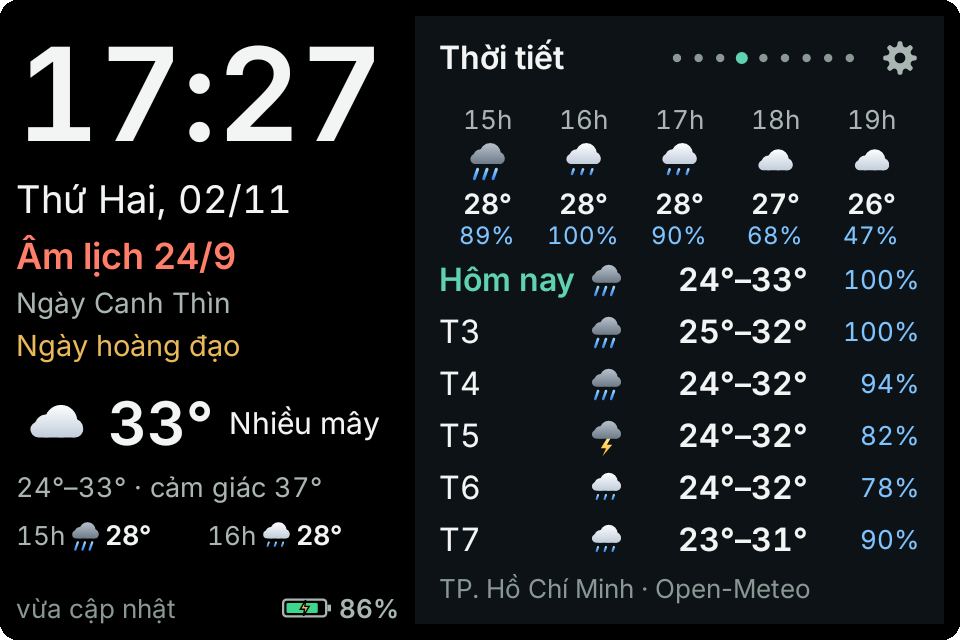
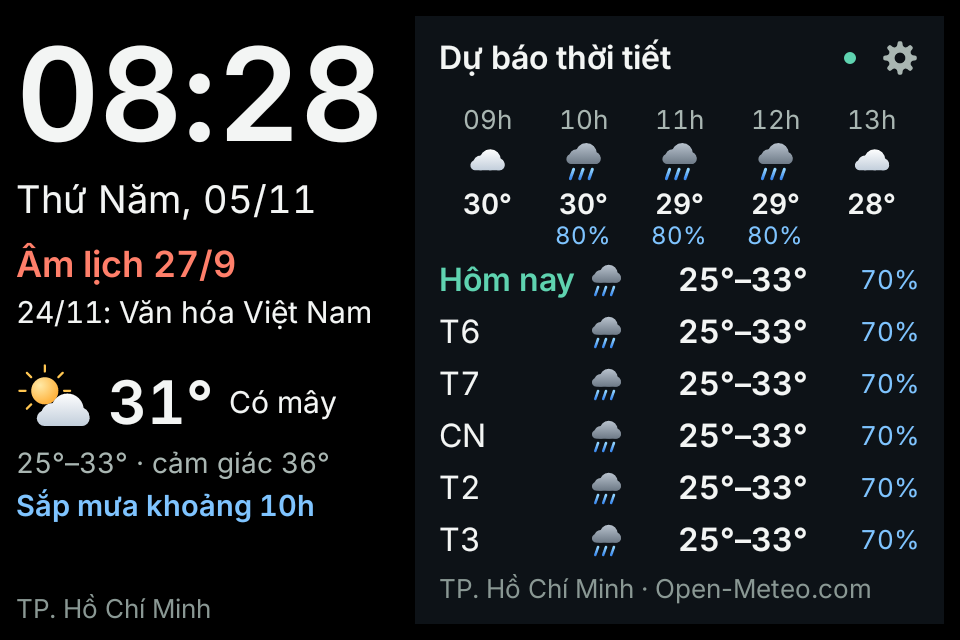
Cột đồng hồ gọn hơn: ba khối giờ, âm lịch, thời tiết; sửa dòng đếm ngược dễ hiểu nhầm
- Bỏ khỏi cột trái (đã có ở trang Tờ lịch, Thời tiết): dòng can chi, "ngày hoàng
  đạo/hắc đạo", độ ẩm, dự báo theo giờ, "vừa cập nhật". Bật lại được trong
  Cài đặt > Nâng cao ("Dưới đồng hồ hiện thêm chi tiết").
- Dòng sự kiện chỉ hiện khi đáng nói; không khí chỉ hiện khi từ mức kém và không
  có cảnh báo mưa; dòng trạng thái chỉ ghi nơi ở, thêm giờ cập nhật khi dữ liệu cũ
  hơn 45 phút.
- Giãn khoảng giữa các khối cho dễ nhìn từ xa.
- Sửa: trên màn hẹp, "Còn 19 ngày: Ngày Văn hóa Việt Nam" bị rút thành
  "Ngày Văn hóa Việt Nam" như thể hôm nay là ngày lễ (tương tự với "Ngày mai",
  giỗ sắp tới). Các bản rút gọn giờ luôn giữ "còn N ngày", "mai" hoặc ngày dương.
- Ảnh chụp màn hình trong README chụp lại theo giao diện mới.
- Test: ClockColumnTest (70 ca).

Claude-Session: https://claude.ai/code/session_01LBFAmNj1cuipmdNPwyJz5E

diff --git a/app/src/main/java/vn/nhatnguyet/ui/MainActivity.java b/app/src/main/java/vn/nhatnguyet/ui/MainActivity.java
@@ -898,14 +898,18 @@ public class MainActivity extends Activity implements DataHub.Listener, Updater.
         });
         col.add(clock, 0);
 
-        // Mỗi dữ kiện một dòng; thiếu chỗ thì ẩn dòng kém quan trọng (số ưu tiên lớn) trước.
+        // Ba khối: giờ và ngày dương; âm lịch và sự kiện; thời tiết. Mỗi dữ kiện một dòng, thiếu chỗ thì ẩn dòng
+        // kém quan trọng (số ưu tiên lớn) trước. Chế độ gọn (mặc định) bỏ những gì đã có ở trang bên phải.
+        boolean details = prefs.clockDetails();
         dateLine = line(19, false);
         col.add(dateLine, 0, ui.px(2));
         lunarLine = line(18, true);
-        col.add(lunarLine, 1, ui.px(6));
+        col.add(lunarLine, 1, ui.px(10));
         canChiLine = line(14, false);
+        canChiLine.setVisibility(details ? View.VISIBLE : View.GONE);
         col.add(canChiLine, 7, ui.px(4));
-        eventLine = line(14.5f, false);
+        eventLine = line(15, false);
+        eventLine.setVisibility(View.GONE);
         col.add(eventLine, 3, ui.px(4));
 
         LinearLayout wx = ui.row();
@@ -916,19 +920,20 @@ public class MainActivity extends Activity implements DataHub.Listener, Updater.
         wx.addView(tempText);
         descText = line(15, false);
         wx.addView(descText, Ui.weight(1));
-        col.add(wx, 2, ui.px(10));
+        col.add(wx, 2, ui.px(16));
 
-        alertLine = line(14, true);
+        detailText = line(14, false);
+        col.add(detailText, 5, ui.px(2));
+        alertLine = line(14.5f, true);
         alertLine.setVisibility(View.GONE);
         col.add(alertLine, 3, ui.px(4));
-        detailText = line(13.5f, false);
-        col.add(detailText, 5, ui.px(4));
-        airLine = line(13.5f, false);
+        airLine = line(14, false);
         airLine.setVisibility(View.GONE);
         col.add(airLine, 4, ui.px(3));
 
         hoursRow = ui.row();
         hoursCount = (int) clamp(widthPx / ui.pxf(78), 2, 6);
+        hoursRow.setVisibility(details ? View.VISIBLE : View.GONE);
         col.add(hoursRow, 6, ui.px(6));
 
         col.addFill(ui.spacer());
@@ -1320,7 +1325,9 @@ public class MainActivity extends Activity implements DataHub.Listener, Updater.
         String off = hol == null ? DaysOff.name(d, m, y) : null;
         // Ngày riêng (giỗ, sinh nhật) được nhắc trước một tuần, trước cả mùng 1, rằm.
         Lunar.Upcoming soon = hol == null && off == null ? Lunar.nextPersonal(d, m, y, 7) : null;
-        String[] ev;
+        // Chỉ hiện khi có điều đáng nói. Bản rút gọn (màn hẹp) phải giữ "hôm nay / mai / còn N ngày",
+        // nếu không người xem tưởng ngày lễ sắp tới là hôm nay.
+        String[] ev = null;
         int color = Theme.LUNAR;
         if (hol != null) {
             ev = new String[]{"Hôm nay: " + hol.name, hol.name};
@@ -1328,7 +1335,8 @@ public class MainActivity extends Activity implements DataHub.Listener, Updater.
             // Nghỉ bù, ngày nghỉ Tết, nghỉ hoán đổi theo lịch nhà nước.
             ev = new String[]{"Hôm nay: " + off, off};
         } else if (soon != null) {
-            ev = new String[]{(soon.days == 1 ? "Ngày mai: " : "Còn " + soon.days + " ngày: ") + soon.holiday.name, soon.holiday.name};
+            ev = countdown(soon);
+            color = Theme.TEXT;
         } else if (ld.day == 1 && !ld.leap) {
             ev = new String[]{"Mùng 1 tháng " + Lunar.MONTH_NAME[ld.month]};
         } else if (ld.day == 15) {
@@ -1340,20 +1348,30 @@ public class MainActivity extends Activity implements DataHub.Listener, Updater.
             List<Lunar.Upcoming> up = Lunar.upcoming(d, m, y, 1, true);
             int tet = Lunar.daysToTet(d, m, y);
             if (!up.isEmpty() && up.get(0).days <= 45) {
-                Lunar.Upcoming u = up.get(0);
-                String when = u.days == 1 ? "Ngày mai" : "Còn " + u.days + " ngày";
-                ev = new String[]{when + ": " + u.holiday.name, u.holiday.name};
+                ev = countdown(up.get(0));
                 color = Theme.TEXT;
             } else if (tet > 0 && tet <= 60) {
                 ev = new String[]{"Còn " + tet + " ngày đến Tết", "Tết: còn " + tet + " ngày"};
-            } else {
+                color = Theme.TEXT;
+            } else if (prefs.clockDetails()) {
                 boolean good = Lunar.isHoangDao(ld.jd, ld.month);
                 String kind = good ? "Ngày hoàng đạo" : "Ngày hắc đạo";
                 ev = new String[]{kind + " · tiết " + Lunar.solarTerm(ld.jd), kind};
                 color = good ? Theme.AUSPICIOUS : Theme.DIM;
             }
         }
-        eventLine.set(color, ev);
+        eventLine.setVisibility(ev == null ? View.GONE : View.VISIBLE);
+        if (ev != null) eventLine.set(color, ev);
+    }
+
+    /** "Còn 19 ngày: Ngày Văn hóa Việt Nam", rút dần nhưng luôn giữ khoảng cách ngày. */
+    static String[] countdown(Lunar.Upcoming u) {
+        String name = u.holiday.name;
+        String shortName = name.startsWith("Ngày ") ? name.substring(5) : name;
+        if (u.days == 1) return new String[]{"Ngày mai: " + name, "Mai: " + shortName, "Ngày mai có lễ"};
+        String date = Fmt.two(u.solar[0]) + "/" + Fmt.two(u.solar[1]);
+        return new String[]{"Còn " + u.days + " ngày: " + name, "Còn " + u.days + " ngày: " + shortName,
+                date + ": " + shortName, date + " · còn " + u.days + " ngày"};
     }
 
     private void renderWeather() {
@@ -1391,20 +1409,23 @@ public class MainActivity extends Activity implements DataHub.Listener, Updater.
             JSONObject t = days.optJSONObject(0);
             range = Fmt.range(t.optDouble("min"), t.optDouble("max"));
         }
+        boolean details = prefs.clockDetails();
         String feels = "cảm giác " + Fmt.temp(now.optDouble("feels"));
         double hum = now.optDouble("hum");
-        String humid = Double.isNaN(hum) ? "" : " · ẩm " + Math.round(hum) + "%";
+        String humid = details && !Double.isNaN(hum) ? " · ẩm " + Math.round(hum) + "%" : "";
         String head = range.length() > 0 ? range + " · " : "";
         detailText.set(Theme.DIM, head + feels + humid, head + feels, range.length() > 0 ? range : feels);
 
+        // Chế độ gọn: chỉ thêm một dòng cảnh báo khi đáng báo (sắp mưa, hoặc không khí từ mức "kém").
         String rain = WeatherSource.rainSoon(w);
         alertLine.setVisibility(rain == null ? View.GONE : View.VISIBLE);
         if (rain != null) {
             alertLine.set(rain.startsWith("Sắp có dông") ? Theme.WARN : Theme.RAIN, rain, rain.replaceFirst(" \\(.*\\)$", ""));
         }
         JSONObject air = w.optJSONObject("air");
-        airLine.setVisibility(air == null ? View.GONE : View.VISIBLE);
-        if (air != null) {
+        boolean showAir = air != null && (details || (rain == null && WeatherCodes.aqiLevel(air.optInt("aqi")) >= 2));
+        airLine.setVisibility(showAir ? View.VISIBLE : View.GONE);
+        if (showAir) {
             int aqi = air.optInt("aqi");
             int level = WeatherCodes.aqiLevel(aqi);
             String label = WeatherCodes.AQI_LABEL[level];
@@ -1415,7 +1436,7 @@ public class MainActivity extends Activity implements DataHub.Listener, Updater.
         }
 
         JSONArray hours = w.optJSONArray("hours");
-        if (hours != null) {
+        if (hours != null && details) {
             int start = WeatherSource.firstUpcomingHour(w, System.currentTimeMillis());
             for (int i = start; i < start + hoursCount && i < hours.length(); i++) {
                 JSONObject h = hours.optJSONObject(i);
@@ -1485,8 +1506,13 @@ public class MainActivity extends Activity implements DataHub.Listener, Updater.
             statusText.set(Theme.META, place);
             return;
         }
+        // Chỉ nói giờ cập nhật khi dữ liệu đã cũ; bình thường thì dòng này chỉ ghi nơi ở cho đỡ rối.
         long now = System.currentTimeMillis();
-        String fresh = now - e.at < 60_000L ? "vừa cập nhật" : "cập nhật " + Fmt.agoPhrase(e.at, now);
+        if (now - e.at < 45 * 60_000L) {
+            statusText.set(Theme.META, place);
+            return;
+        }
+        String fresh = "cập nhật " + Fmt.agoPhrase(e.at, now);
         statusText.set(Theme.META, place + " · " + fresh, fresh);
     }
 

diff --git a/app/src/main/java/vn/nhatnguyet/ui/SettingsActivity.java b/app/src/main/java/vn/nhatnguyet/ui/SettingsActivity.java
@@ -88,7 +88,7 @@ public class SettingsActivity extends Activity implements Updater.Listener {
     private TextView placeState, personalState, updateState, versionText, versionDetail;
     private Button installButton, pinButton, pinRemove;
     private CheckBox alwaysOn, burnIn, warmNight, proximity, proximitySleep, wakeMorning, autoStart, autoUpdate, flipInfo;
-    private CheckBox awayEnabled, awayWeekdays, batterySaver;
+    private CheckBox awayEnabled, awayWeekdays, batterySaver, clockDetails;
     private Slider awayStart, awayEnd;
     private LinearLayout awayBox;
     private TextView batteryState;
@@ -459,6 +459,8 @@ public class SettingsActivity extends Activity implements Updater.Listener {
 
         label(box, "Bố cục");
         layoutGroup = radios(box, 100, new String[]{"Tự động theo kích thước máy", "Luôn 2 cột", "3 cột (máy màn dài từ 6 inch)"});
+        clockDetails = check(box, "Dưới đồng hồ hiện thêm chi tiết: can chi, ngày hoàng đạo, độ ẩm, không khí, dự báo theo giờ");
+        note(box, "Mặc định cột đồng hồ chỉ giữ giờ, ngày, âm lịch, ngày lễ sắp tới và thời tiết; phần chi tiết đã có ở trang Tờ lịch và Thời tiết.");
 
         label(box, "Chứng khoán: mã theo dõi, cách nhau dấu phẩy");
         watchlist = input(box, Prefs.DEFAULT_WATCHLIST, InputType.TYPE_CLASS_TEXT | InputType.TYPE_TEXT_FLAG_CAP_CHARACTERS
@@ -786,6 +788,7 @@ public class SettingsActivity extends Activity implements Updater.Listener {
         awayEnd.set(prefs.awayEnd());
         awayWeekdays.setChecked(prefs.awayWeekdaysOnly());
         batterySaver.setChecked(prefs.batterySaver());
+        clockDetails.setChecked(prefs.clockDetails());
         autoStart.setChecked(prefs.autoStart());
         if (autoUpdate != null) autoUpdate.setChecked(prefs.autoUpdate());
     }
@@ -864,6 +867,7 @@ public class SettingsActivity extends Activity implements Updater.Listener {
         prefs.putInt("away_end", awayEnd.get());
         prefs.putBool("away_weekdays", awayWeekdays.isChecked());
         prefs.putBool("battery_saver", batterySaver.isChecked());
+        prefs.putBool("clock_details", clockDetails.isChecked());
         if (autoUpdate != null) prefs.putBool("auto_update", autoUpdate.isChecked());
 
         if (!place.getText().toString().trim().equalsIgnoreCase(prefs.placeName())

diff --git a/app/src/test/java/vn/nhatnguyet/ui/ClockColumnTest.java b/app/src/test/java/vn/nhatnguyet/ui/ClockColumnTest.java
@@ -1,0 +1,25 @@
+package vn.nhatnguyet.ui;
+
+import static org.junit.Assert.assertEquals;
+import static org.junit.Assert.assertTrue;
+
+import org.junit.Test;
+
+import java.util.List;
+
+import vn.nhatnguyet.lunar.Lunar;
+
+/** Dòng sự kiện dưới đồng hồ: bản rút gọn cho màn hẹp không được làm người xem tưởng ngày lễ là hôm nay. */
+public class ClockColumnTest {
+    @Test
+    public void countdownAlwaysKeepsWhen() {
+        List<Lunar.Upcoming> up = Lunar.upcoming(5, 11, 2026, 1, true);
+        Lunar.Upcoming u = up.get(0);
+        assertEquals("Ngày Văn hóa Việt Nam", u.holiday.name);
+        String[] v = MainActivity.countdown(u);
+        assertEquals("Còn 19 ngày: Ngày Văn hóa Việt Nam", v[0]);
+        for (String s : v) assertTrue(s, s.contains("19 ngày") || s.startsWith("24/11"));
+        String[] tomorrow = MainActivity.countdown(Lunar.upcoming(23, 11, 2026, 1, true).get(0));
+        for (String s : tomorrow) assertTrue(s, s.toLowerCase().contains("mai"));
+    }
+}

diff --git a/app/src/main/java/vn/nhatnguyet/Prefs.java b/app/src/main/java/vn/nhatnguyet/Prefs.java
@@ -268,6 +268,11 @@ public final class Prefs {
         return DISPLAY_FLIP.equals(displayMode());
     }
 
+    /** Cột giờ hiện thêm chi tiết: can chi, ngày hoàng đạo, độ ẩm, không khí, dự báo theo giờ (mặc định gọn). */
+    public boolean clockDetails() {
+        return sp.getBoolean("clock_details", false);
+    }
+
     /** Hiện ngày, âm lịch, thời tiết dưới đồng hồ lật. */
     public boolean flipInfo() {
         return sp.getBoolean("flip_info", true);

diff --git a/README.md b/README.md
@@ -37,7 +37,7 @@ Không cần tài khoản, không quảng cáo, không qua máy chủ trung gian
 
 ## Tính năng
 
-- **Bảng lịch tự co giãn.** Cột trái luôn hiện giờ, thứ ngày, âm lịch, can chi, ngày lễ, thời tiết hiện tại và pin. Mỗi dữ kiện nằm gọn một dòng; màn nhỏ tự ẩn dòng kém quan trọng thay vì thu chữ.
+- **Bảng lịch tự co giãn, cột giờ gọn.** Cột trái chia ba khối: giờ và ngày dương; âm lịch và một dòng sự kiện khi đáng nói (ngày lễ, ngày nghỉ, giỗ sắp tới, mùng 1, rằm, đếm ngược lễ lớn); thời tiết hai dòng, thêm một dòng khi sắp mưa hoặc không khí kém. Can chi, độ ẩm, dự báo theo giờ đã có ở trang Tờ lịch và Thời tiết; muốn hiện cả dưới đồng hồ thì bật trong Cài đặt > Nâng cao. Màn nhỏ tự ẩn dòng kém quan trọng thay vì thu chữ.
 - **Tờ lịch.** Ngày dương thật lớn, ngày âm màu đỏ son, can chi, giờ hoàng đạo và một câu ca dao mỗi ngày, như tờ lịch bloc treo tường.
 - **Lịch âm dương chính xác.** Thuật toán Hồ Ngọc Đức theo múi giờ +7: tháng nhuận, can chi ngày tháng năm, tiết khí, ngày và giờ hoàng đạo, ngày lễ (gồm Ngày Văn hóa Việt Nam 24/11 từ năm 2026), đếm ngược Tết.
 - **Ngày nghỉ đúng luật.** Chỉ tô đỏ ngày được nghỉ hưởng lương theo Bộ luật Lao động 2019 (Điều 112) và Nghị quyết 28/2026/QH16, cùng ngày nghỉ bù khi lễ trùng cuối tuần (khoản 3 Điều 111). Ngày nghỉ Tết, ngày liền kề Quốc khánh và ngày hoán đổi theo lịch khối nhà nước đã công bố (hiện có 2026 và 2027); năm chưa công bố chỉ đánh dấu những ngày chắc chắn nghỉ. Ngày kỷ niệm không được nghỉ chỉ ghi tên.

diff --git a/CHANGELOG.md b/CHANGELOG.md
@@ -3,6 +3,8 @@
 ## 1.0.2
 
 - Lần đầu mở app hỏi nơi ở để thời tiết đúng chỗ ngay; màn Cài đặt gọn hơn, phần ít dùng gom vào "Nâng cao".
+- Cột đồng hồ gọn hơn: ba khối giờ, âm lịch, thời tiết; bỏ dòng can chi, "ngày hoàng đạo", độ ẩm, dự báo theo giờ và "vừa cập nhật" (đã có ở trang bên phải; bật lại trong Nâng cao). Không khí chỉ hiện khi từ mức kém.
+- Sửa dòng đếm ngược trên màn hẹp bị rút thành tên ngày lễ, dễ tưởng là hôm nay; giờ luôn giữ "còn N ngày" hoặc ngày dương.
 - Trang Tin tức chọn báo bằng ô tick; mặc định chỉ bật Tờ lịch, Lịch tháng, Thời tiết, Vàng, Xăng dầu.
 - Thêm ngày giỗ bằng hộp thoại; nhận cả dòng ghi kèm năm ("15/8/2010 âm Giỗ ông") và "(âm)".
 - Thêm Ngày Văn hóa Việt Nam 24/11 (ngày nghỉ hưởng lương từ năm 2026 theo Nghị quyết 28/2026/QH16), tô đỏ và đếm ngược như các ngày lễ lớn. Mùng 2, mùng 3 Tết và Giao thừa là ngày lễ; ngày 29/2 dương lịch được nhắc vào 28/2 ở năm không nhuận.
